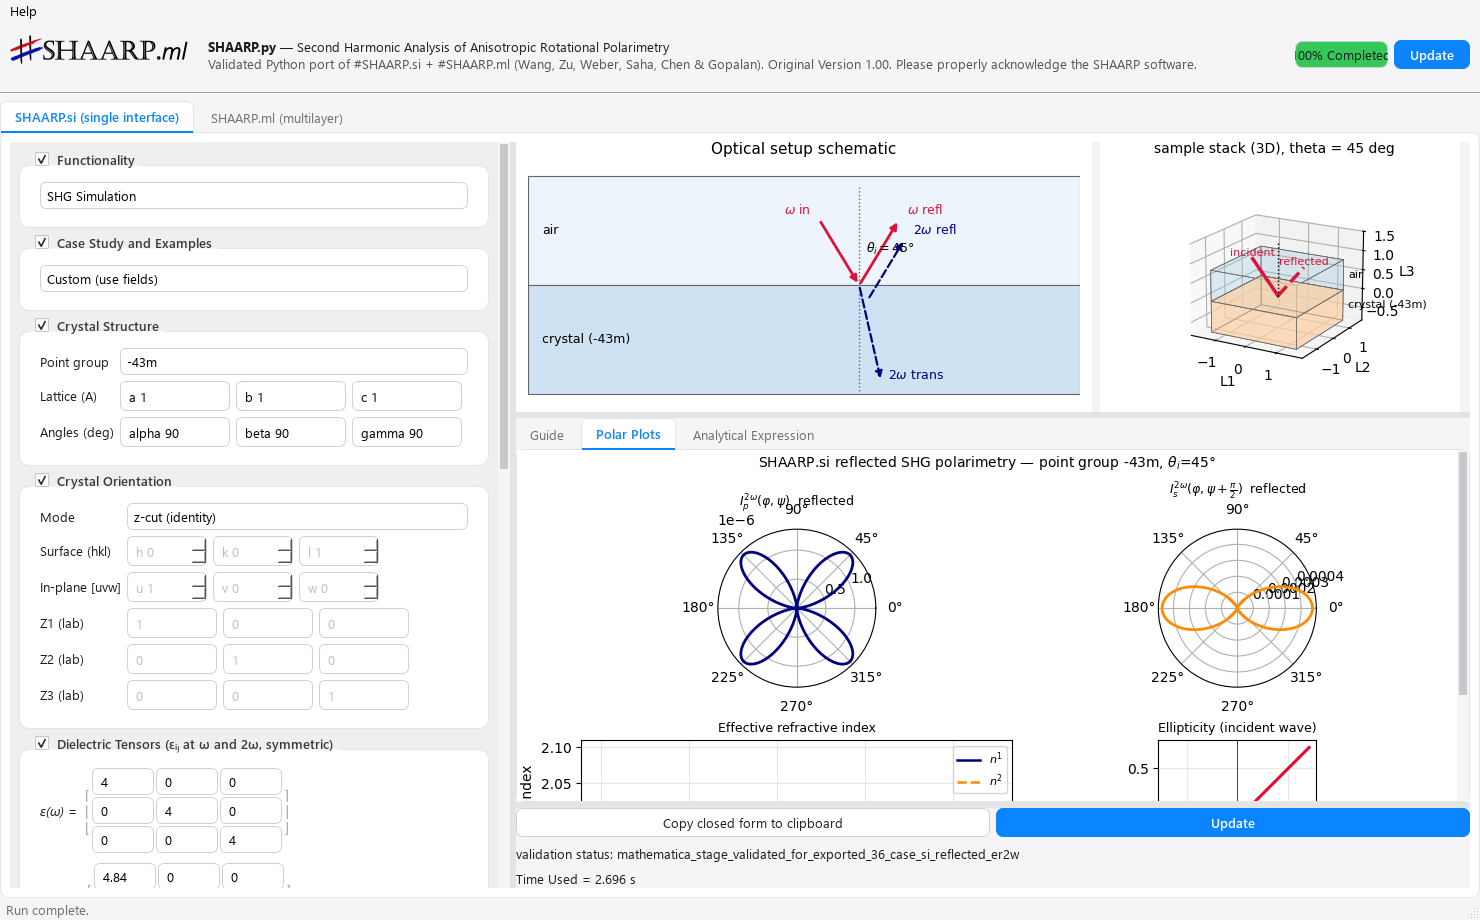
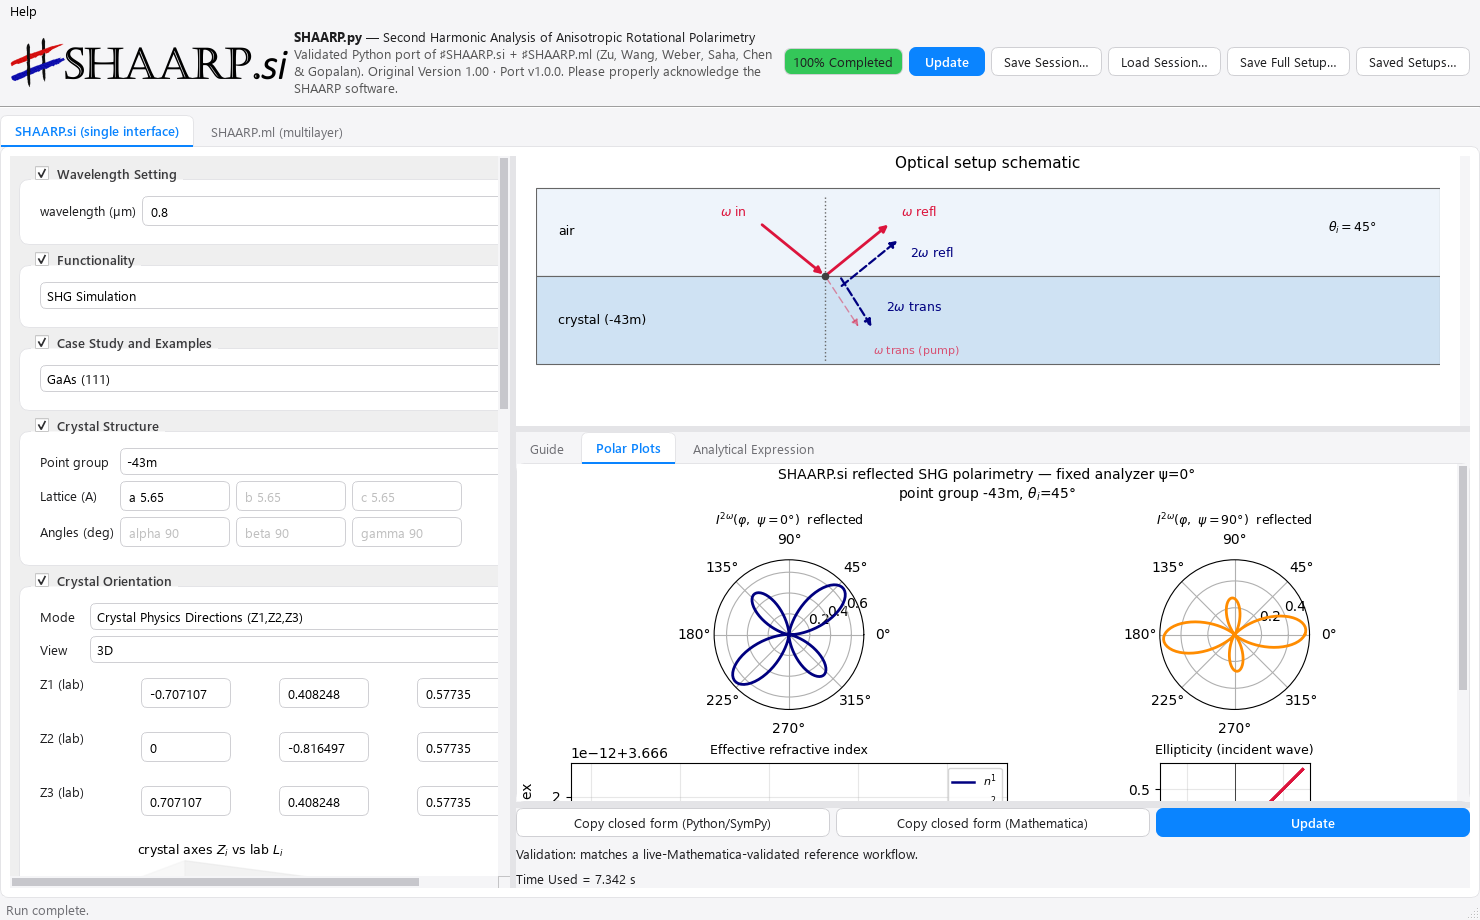
update

diff --git a/README.md b/README.md
@@ -99,8 +99,8 @@ file for your computer (open the newest release and look under *Assets*):
 
 | Your computer | Download | Then |
 |---|---|---|
-| Windows (64-bit) | `SHAARP_py_v1.0.0_win64.zip` (120 MB) | **extract the zip**, then double-click `SHAARP_py\SHAARP_py.exe` |
-| macOS, Apple Silicon (M-series) | `SHAARP_py_v1.0.0_macos.zip` (83 MB) | **extract the zip**, then open `SHAARP_py/SHAARP_py.app` (see the note below) |
+| Windows (64-bit) | `SHAARP_py_v…_win64.zip` (≈120 MB) | **extract the zip**, then double-click `SHAARP_py\SHAARP_py.exe` |
+| macOS, Apple Silicon (M-series) | `SHAARP_py_v…_macos_arm64.zip` (≈83 MB) | **extract the zip**, then open `SHAARP_py/SHAARP_py.app` (see the note below) |
 
 Extracting first matters on Windows: the app needs the `_internal` folder next to the `.exe`, so
 double-clicking straight out of the zip fails silently.
@@ -222,7 +222,9 @@ matches how you think.
 
 One catch worth knowing before you publish a number: for single-interface work `run_si_numeric`
 defaults to a *reduced* model and says so at runtime, in a `RuntimeWarning`. Ask for the validated
-solver explicitly with `run_si_numeric(sample, {"workflow": "shaarp_si_compat", ...})`. The
+solver explicitly with `run_si_numeric(sample, {"workflow": "shaarp_si_compat", ...})`, which
+reads only `theta_deg` — for a curve in the azimuth φ use
+`run_si_full_analytical(case, {"workflow": "polarimetry"})` instead. The
 `compute_si_gui_result` / `compute_ml_gui_result` paths shown above always use the validated
 solver, which is why the example on this page uses one.
 
@@ -254,9 +256,11 @@ want to run the rows marked ⧉.
 | `examples/` | Small runnable scripts with figures |
 | `benchmarks/` | Frozen live-Mathematica reference exports + the comparison tooling (no Mathematica needed to run tests) |
 | `docs/` | Full Sphinx site: GUI guide, API reference, tutorials, conventions, validation evidence |
-
-Installing the package also puts two commands on your PATH: **`shaarp-gui`** launches the desktop app, and `shaarp` is a small CLI for one-off runs (`shaarp --mode si --theta 45 --points 181 --save out.csv`; `shaarp --help` lists the options).
 | `tests/` | The gated validation suite |
+
+Installing the package also puts two commands on your PATH: **`shaarp-gui`** launches the desktop
+app, and `shaarp` is a small CLI for one-off runs (`shaarp --mode si --theta 45 --points 181 --save
+out.csv`; `shaarp --help` lists the options).
 
 ## How it works
 

diff --git a/docs/guide/install_launch.md b/docs/guide/install_launch.md
@@ -11,8 +11,8 @@ the tagged source.)
 
 | System | File to download | How to run it |
 |---|---|---|
-| Windows (64-bit) | `SHAARP_py_v1.0.0_win64.zip` (120 MB) | extract, then double-click `SHAARP_py\SHAARP_py.exe` |
-| macOS, Apple Silicon (M-series) | `SHAARP_py_v1.0.0_macos.zip` (83 MB) | extract, then open `SHAARP_py/SHAARP_py.app` |
+| Windows (64-bit) | `SHAARP_py_v…_win64.zip` (≈120 MB) | extract, then double-click `SHAARP_py\SHAARP_py.exe` |
+| macOS, Apple Silicon (M-series) | `SHAARP_py_v…_macos_arm64.zip` (≈83 MB) | extract, then open `SHAARP_py/SHAARP_py.app` |
 
 On an **Intel Mac**, Linux, or any other system there is no packaged build — use Option 2 below.
 The macOS bundle is Apple Silicon only and an Intel Mac refuses it with *"not supported on this
